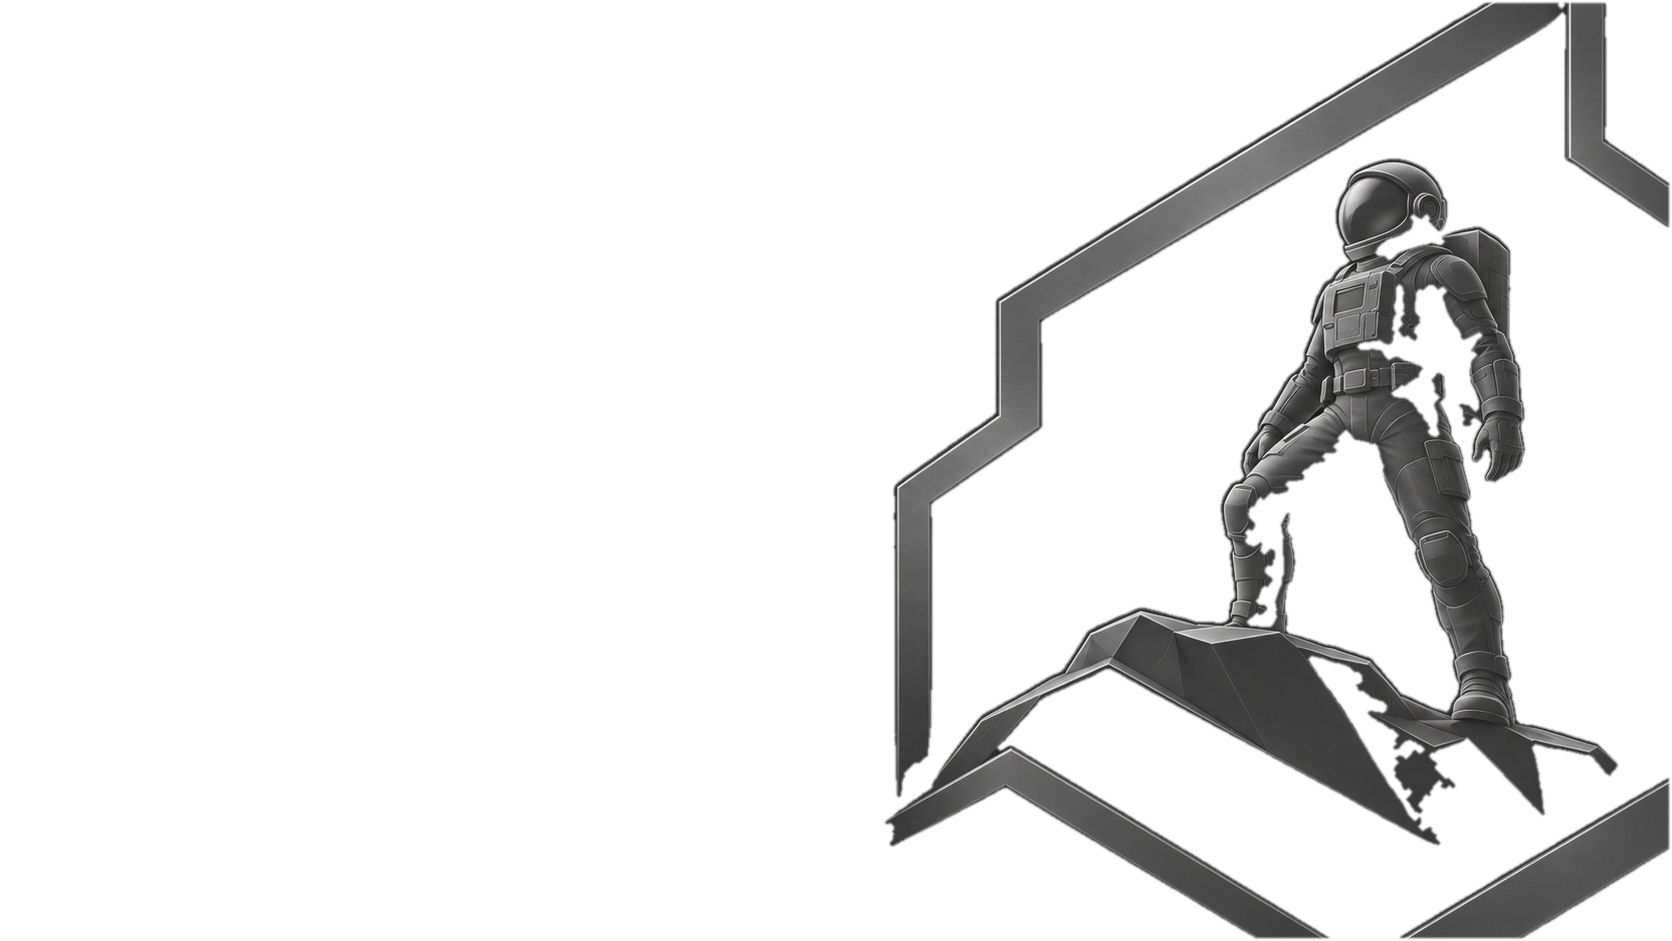
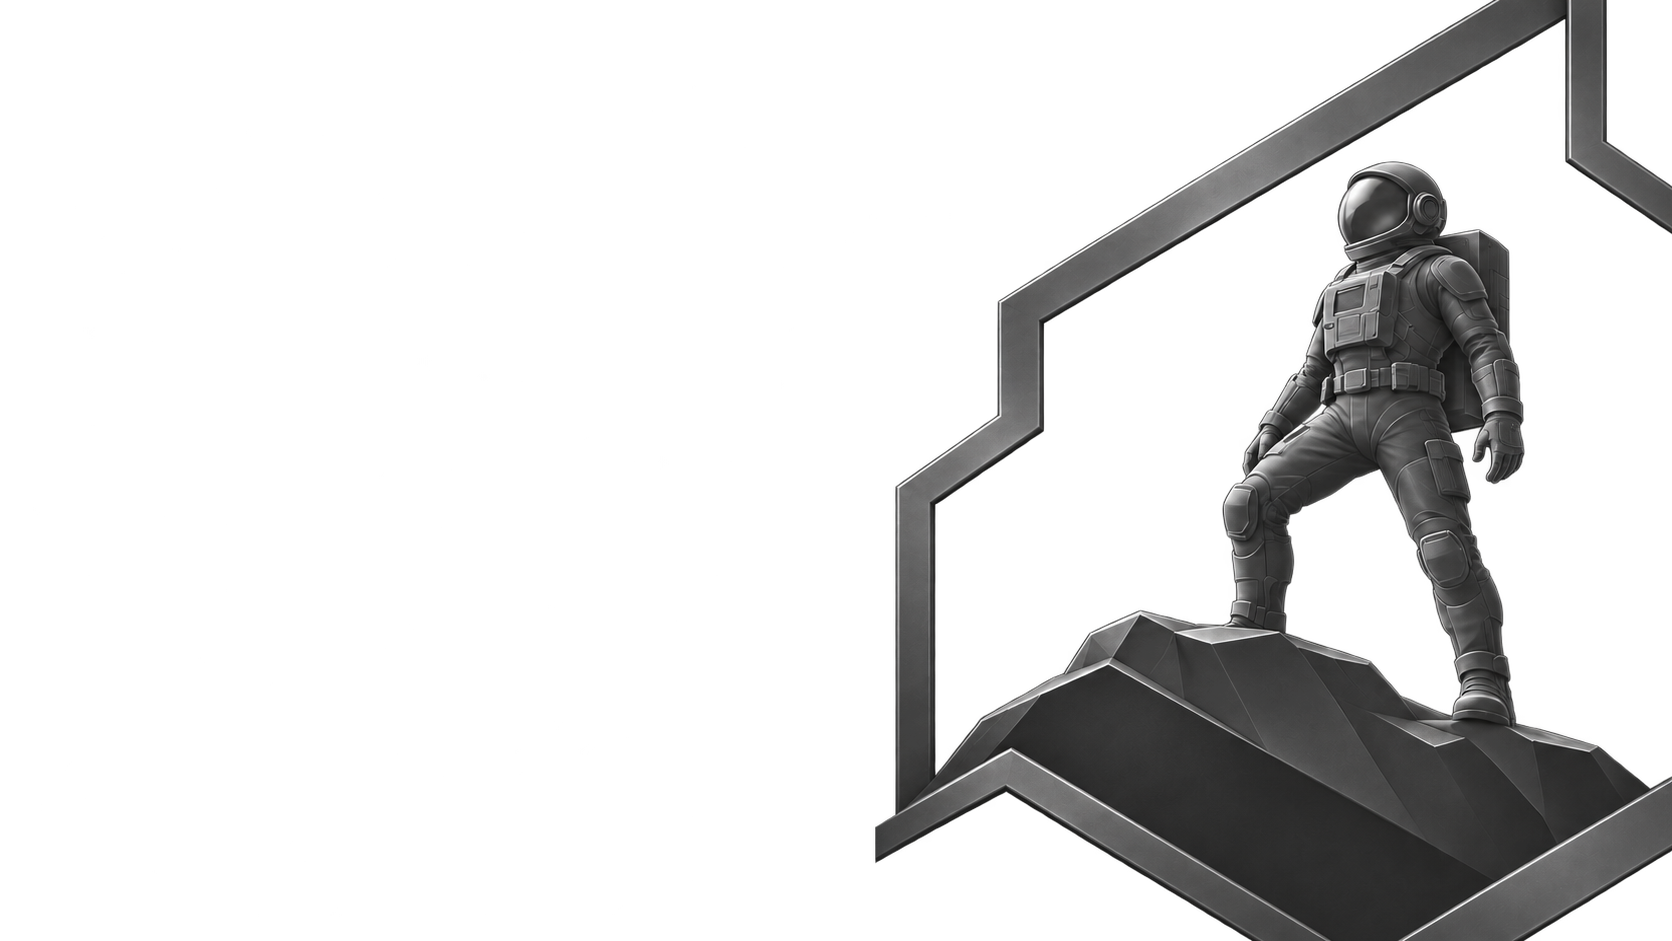
Added Cockpit empty-editor background option

diff --git a/src/assets/emptyEditorBackgrounds.ts b/src/assets/emptyEditorBackgrounds.ts
@@ -9,6 +9,7 @@ import gabriele from './emptyEditorBackgroundGabriele.png'
 import rockhoppers from './emptyEditorBackgroundRockhoppers.png'
 import goodGirl from './emptyEditorBackgroundGoodGirl.png'
 import malta from './emptyEditorBackgroundMalta.jpg'
+import cockpit from './emptyEditorBackgroundCockpit.jpg'
 import type { CSSProperties } from 'react'
 import type { BackgroundImage } from '@/stores/displayStore'
 
@@ -26,13 +27,14 @@ export const EMPTY_EDITOR_BACKGROUNDS: Record<Exclude<BackgroundImage, 'none'>, 
   rockhoppers,
   goodGirl,
   malta,
+  cockpit,
 }
 
 // Every other background is a cut-out badge pinned to the right edge at full
 // height (the .empty-editor-bg / .app-bg-badge defaults). Full-scene images —
 // a whole wallpaper rather than a badge — fill the area instead, so they
 // don't leave a hard edge on wide windows.
-const FULL_SCENE: ReadonlySet<BackgroundImage> = new Set<BackgroundImage>(['malta'])
+const FULL_SCENE: ReadonlySet<BackgroundImage> = new Set<BackgroundImage>(['malta', 'cockpit'])
 
 export function backgroundImageStyle(image: Exclude<BackgroundImage, 'none'>): CSSProperties {
   const url = `url(${EMPTY_EDITOR_BACKGROUNDS[image]})`

diff --git a/src/stores/displayStore.ts b/src/stores/displayStore.ts
@@ -41,7 +41,7 @@ export const PANEL_STYLE_OPTIONS: { value: PanelStyle; label: string; descriptio
   { value: 'glass',         label: 'Glass',       description: 'See-through' },
 ]
 
-export type BackgroundImage = 'none' | 'vide' | 'clawd' | 'atreus' | 'link' | 'techLines' | 'borahae' | 'wave' | 'gabriele' | 'rockhoppers' | 'malta' | 'goodGirl'
+export type BackgroundImage = 'none' | 'vide' | 'clawd' | 'atreus' | 'link' | 'techLines' | 'borahae' | 'wave' | 'gabriele' | 'rockhoppers' | 'malta' | 'cockpit' | 'goodGirl'
 
 // Shared between DisplayPage and the setup wizard's theme step, same as
 // PANEL_STYLE_OPTIONS below.
@@ -58,6 +58,7 @@ export const BACKGROUND_IMAGE_OPTIONS: { value: BackgroundImage; label: string }
   { value: 'techLines', label: 'Tech Lines' },
   { value: 'wave',      label: 'Wave' },
   { value: 'malta',       label: 'Malta' },
+  { value: 'cockpit',     label: 'Cockpit' },
 ]
 
 // Each built-in theme family's matching background — swapping the active

diff --git a/src/lib/syncCompat.ts b/src/lib/syncCompat.ts
@@ -36,7 +36,7 @@ export const KNOWN_SYNCED_ENUMS: Record<string, readonly string[]> = {
   ],
   'vide:backgroundImage': [
     'none', 'vide', 'clawd', 'link', 'atreus', 'borahae',
-    'gabriele', 'rockhoppers', 'goodGirl', 'techLines', 'wave', 'malta',
+    'gabriele', 'rockhoppers', 'goodGirl', 'techLines', 'wave', 'malta', 'cockpit',
   ],
 }
 
